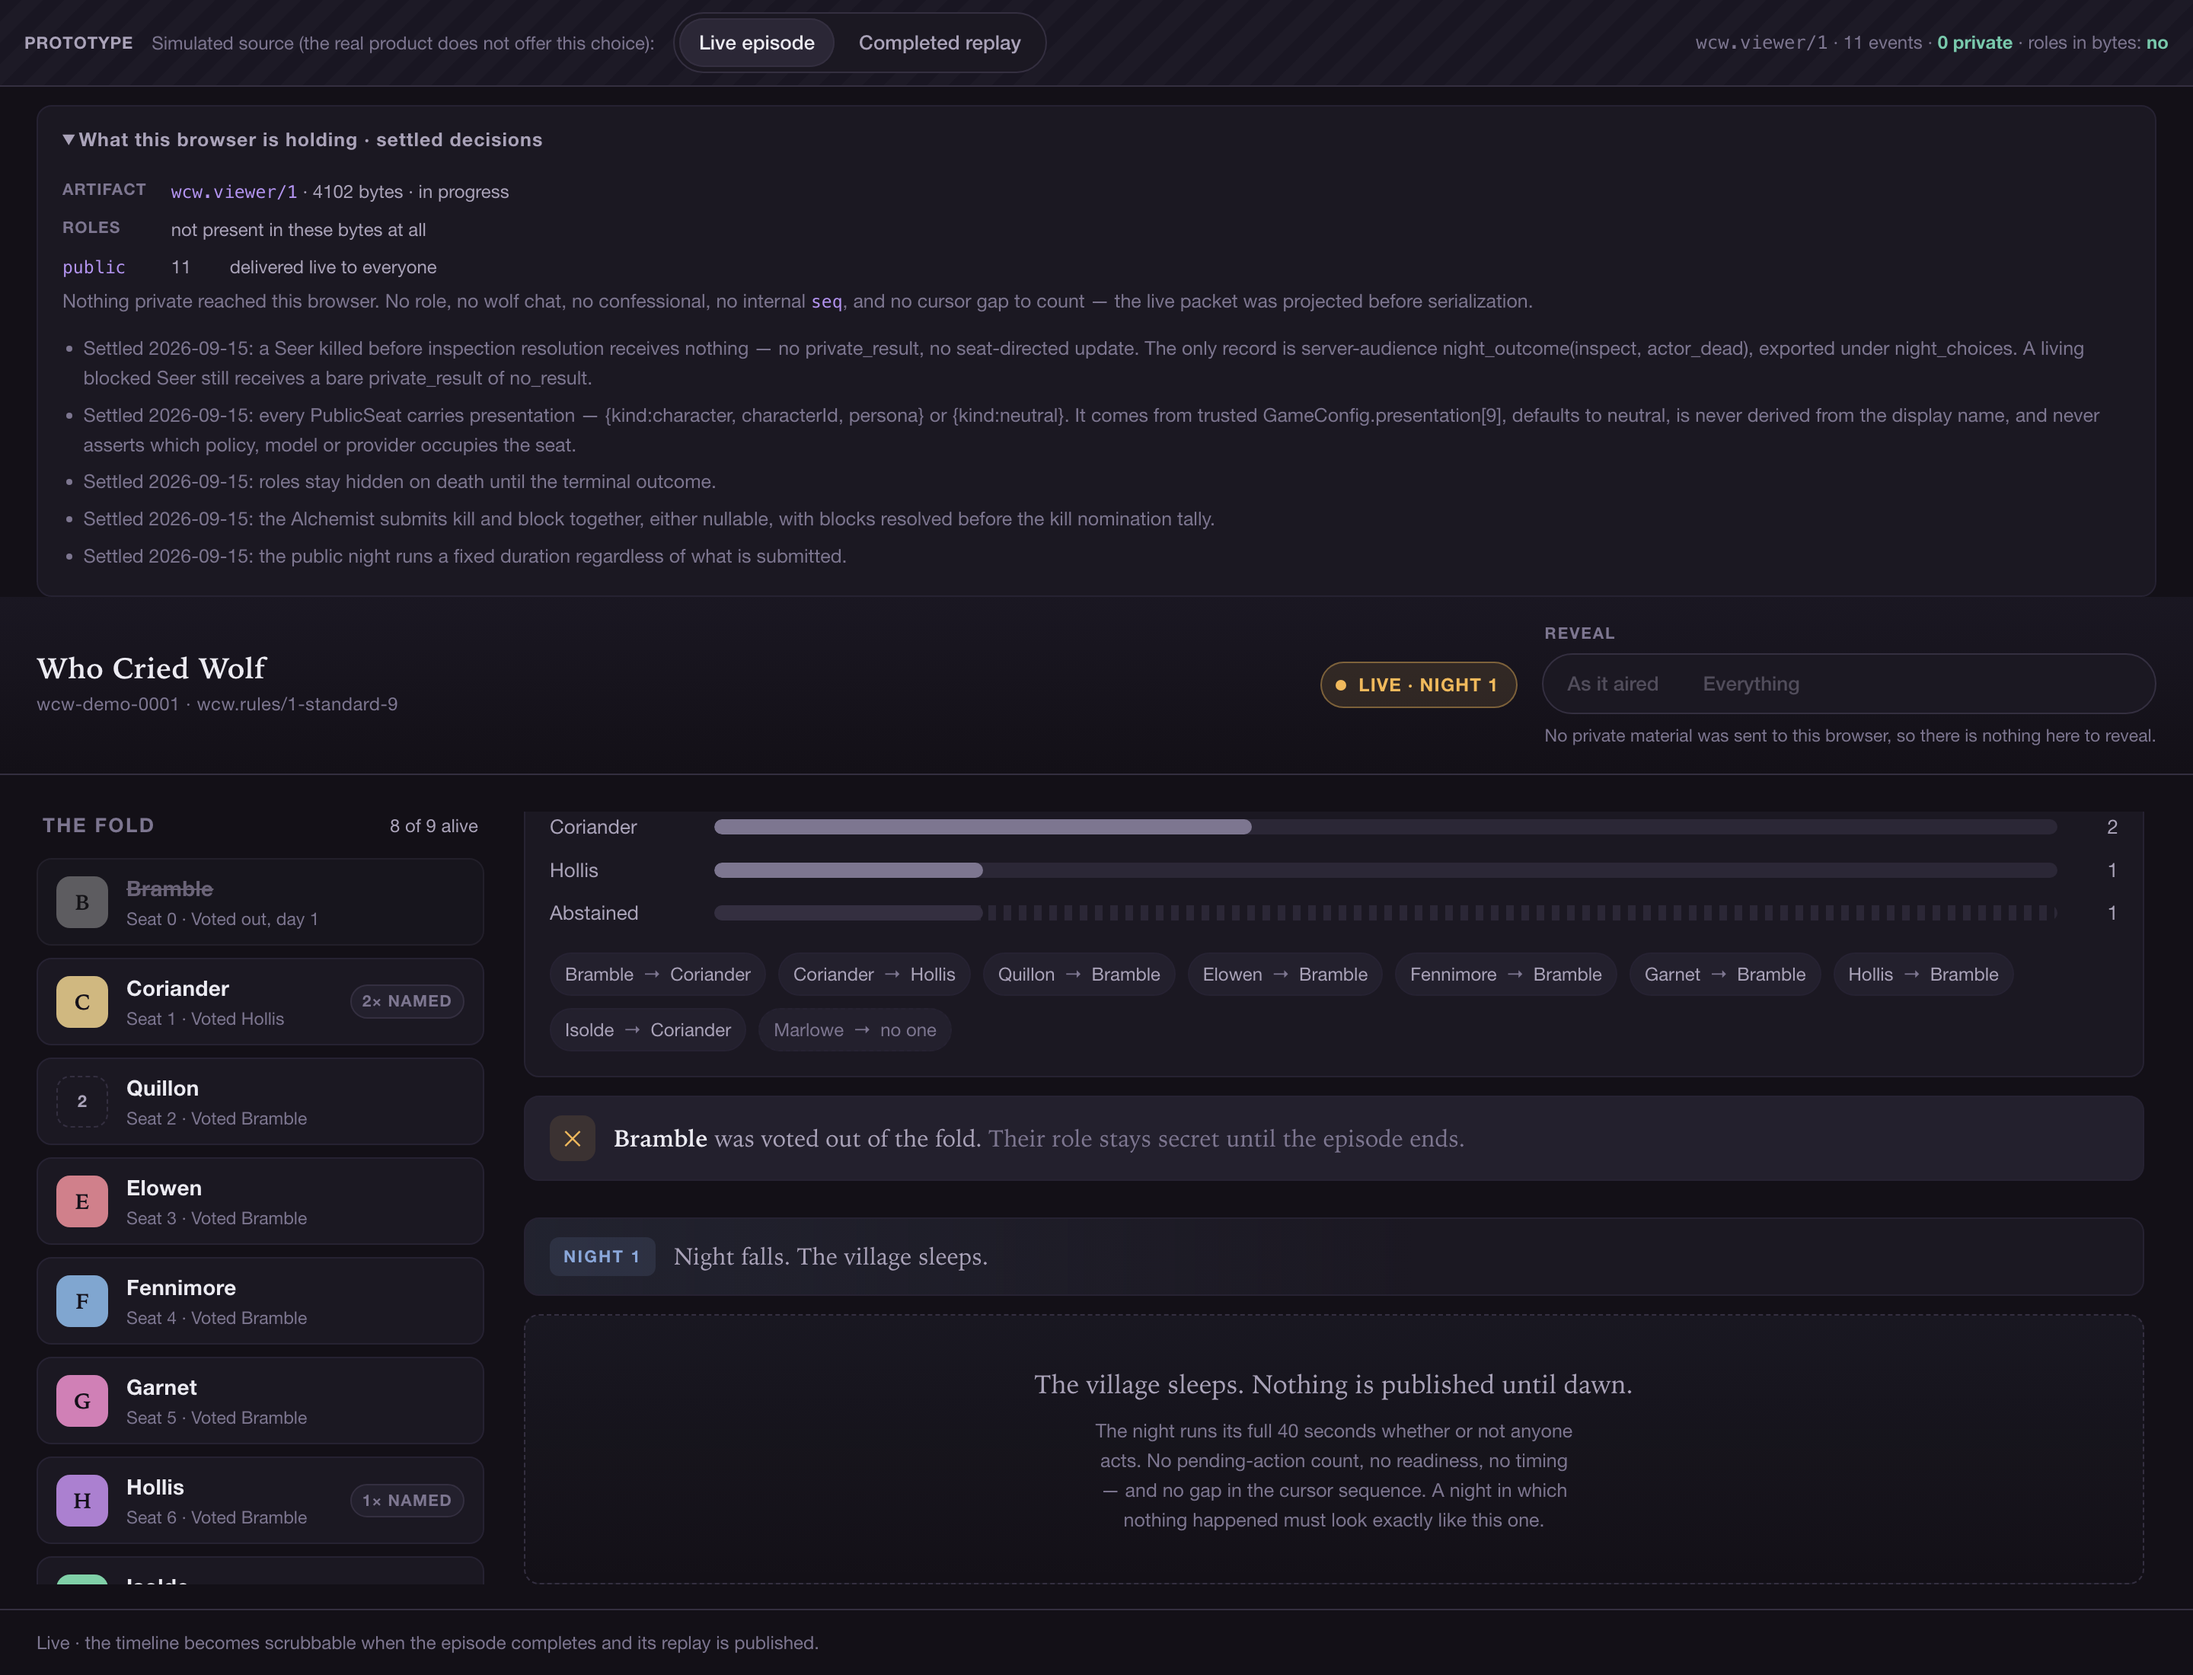
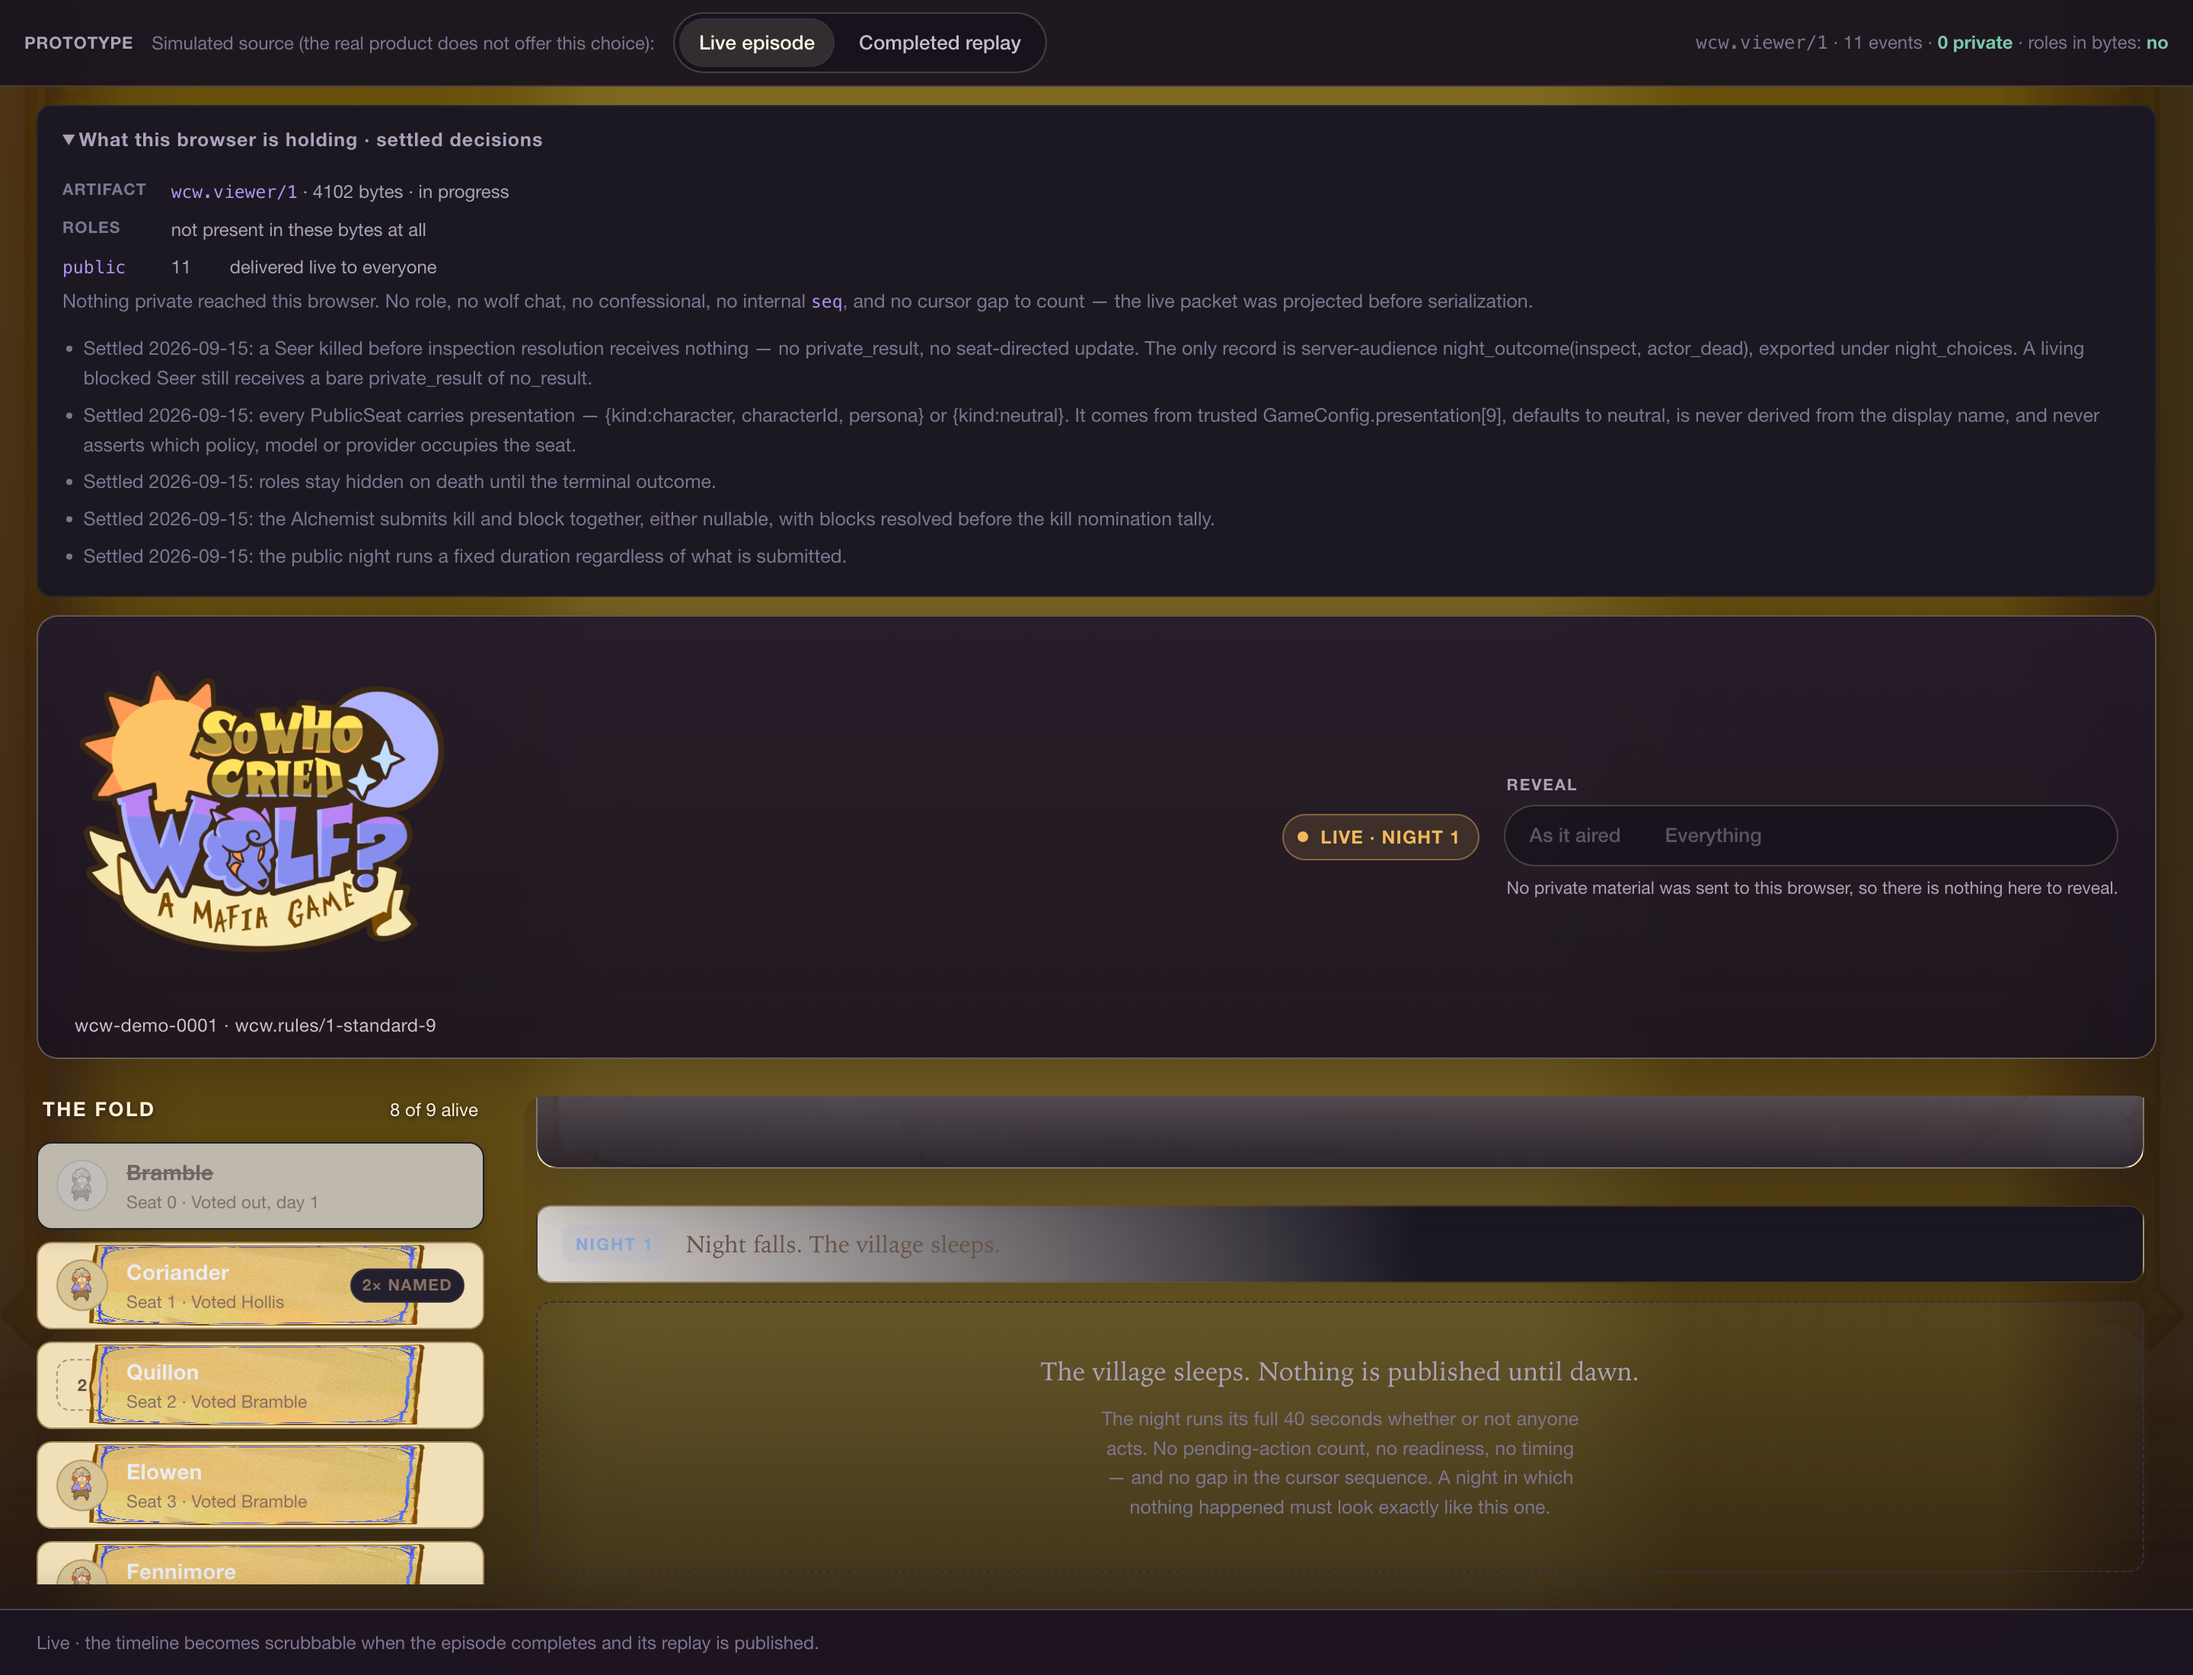
docs: record illustrated spectator design evidence

diff --git a/docs/design/prototype/index.html b/docs/design/prototype/index.html
@@ -469,7 +469,10 @@ body::after {
 }
 @media (max-width: 620px) {
   .masthead { padding: var(--s3) var(--s4); gap: var(--s3); }
-  .brand { flex: 1 0 100%; }
+  .brand { flex: 1 1 130px; }
+  .brand-art { width: 112px; }
+  .brand .sub { font-size: 10.5px; }
+  .control { flex: 1 0 100%; }
   .stage { padding: var(--s3); }
   .speech { grid-template-columns: minmax(0,1fr); }
   .speech > .avatar { display: none; }

diff --git a/docs/design/reveal-and-spectator-design.md b/docs/design/reveal-and-spectator-design.md
@@ -186,7 +186,8 @@ mapping is §10.2.
 
 | Beat | Carries |
 | --- | --- |
-| `PhaseBanner` | day/phase mark and one line of fold-authored narration |
+| `PhaseTransition` | original illustrated day/night interstitial with a caption derived from public phase and elimination evidence |
+| `PhaseBanner` | compact vote/phase mark and one line of fold-authored narration |
 | `SpeechBeat` | identity, seat, reply target, the text, declared accusation, and — when revealed — why that bid took the floor |
 | `VoteTally` | bars, derived majority, resolution when it is not a plain majority, every ballot as `voter → target` |
 | `Knell` | who left and how; secrecy caption only while roles are unknown |
@@ -443,7 +444,7 @@ The fold's entire responsibility, in one table.
 | Accepted payload kind | Beat | Fold adds |
 | --- | --- | --- |
 | `started` | — (seeds the roster) | reads each seat's `presentation` off the roster; never matches on the name |
-| `phase` | `PhaseBanner`; a night becomes `NightScene` or `NightHold` | narration; the hold quotes `durationMs` |
+| `phase` | day/night boundaries become `PhaseTransition`; vote uses `PhaseBanner`; a night also becomes `NightScene` or `NightHold` | transition choice and narration from already-public elimination evidence; the hold quotes `durationMs` |
 | `speech` | `SpeechBeat` | resolves `replyTo` to a name; attaches the selected bid's `reason` when revealed |
 | `ballots` | `VoteTally` | derives the majority threshold from ballot count |
 | `elimination` | `Knell` when `cause: 'vote'`; state only when `cause: 'wolf'` | — |
@@ -567,16 +568,19 @@ A build satisfies this design when each is demonstrable.
 | A11 | Nothing conveys alive/dead, faction, abstention or night outcome by colour alone | §4.1, all captures |
 | A12 | The UI states what the browser is holding, and never implies the spoiler toggle is a boundary | `07-holdings-live.png`, `08-holdings-replay.png` |
 | A13 | An inspection whose actor died before it resolved produces no private beat, and reads as `no result — the actor died before it resolved` in the night's resolution panel | assertions 21–22; `01-replay-omniscient-night1.png` |
+| A14 | The original Who Cried Wolf world, title, player-card and role treatments frame the evidence UI, and day/night boundaries use the matching illustrated interstitial | `02-live-public-night1.png`, `03-replay-asaired-day2.png`, `12-transition-day2.png` |
 
 ---
 
 ## Appendix: reuse boundary
 
-Tofu Tech's client and the benchmark's web app were read as references only. Nothing was copied.
+The user owns the Tofu Tech source and explicitly authorized reuse of its Who Cried Wolf graphics in
+this prototype. The bounded copied set and exact source revision are recorded in
+[`prototype/assets/wcw/README.md`](prototype/assets/wcw/README.md). The prototype reuses the day and
+night worlds, title, player-card treatment, role icons, paper/chat textures, game-over art, and
+phase-transition compositions. It does not import Tofu components or depend on the Tofu repository
+at runtime.
 
-- **From Tofu:** the vocabulary — fold, seat card, role badge, ballot, elimination mark. No asset,
-  sprite, font or component was reused; none has a verified licence record, and the product contract
-  requires one. All identity marks here are generated from slot and name.
 - **From the benchmark:** the shape of the behaviour — typed bids with urgency and reason, floor
   arbitration, sequential wolf chat, audience-tagged events. Its producer console (channel tabs,
   controller scores, approve/edit/regenerate, raw provider response) is explicitly **not** the model
